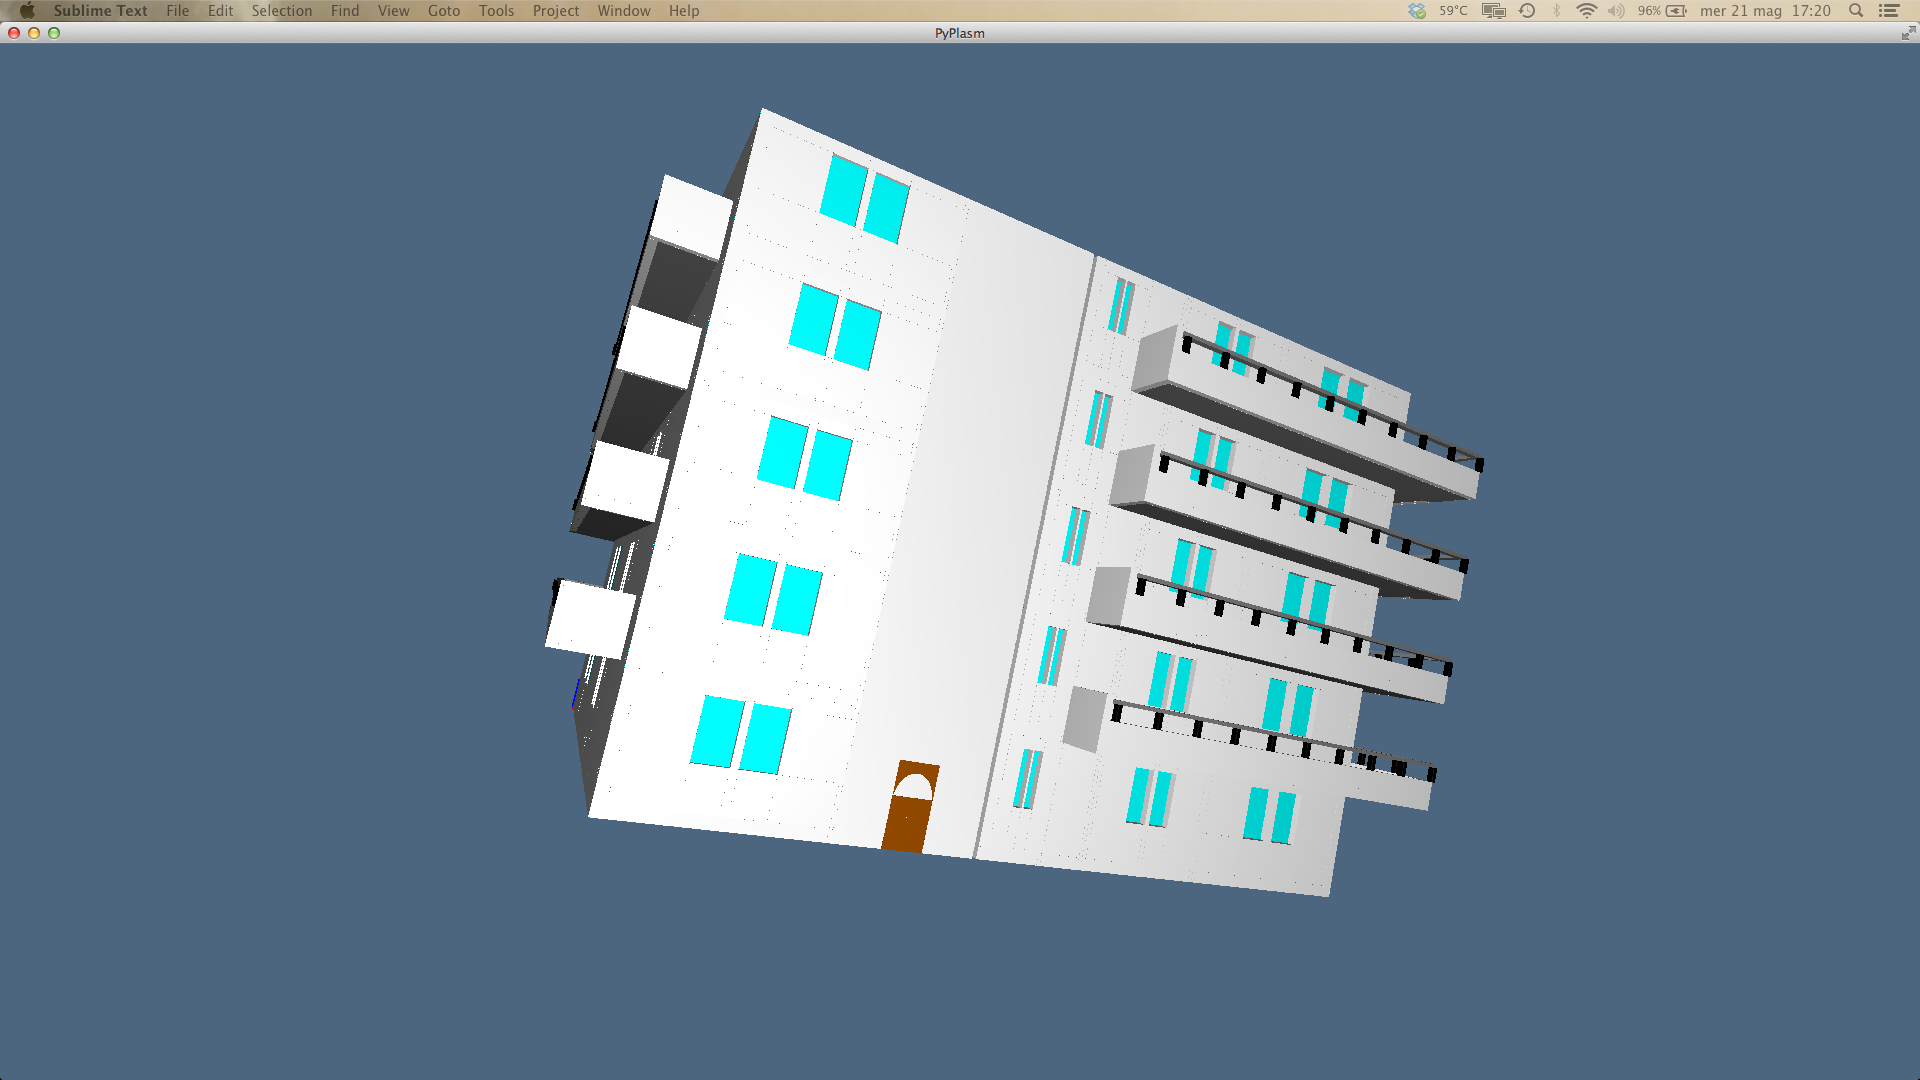
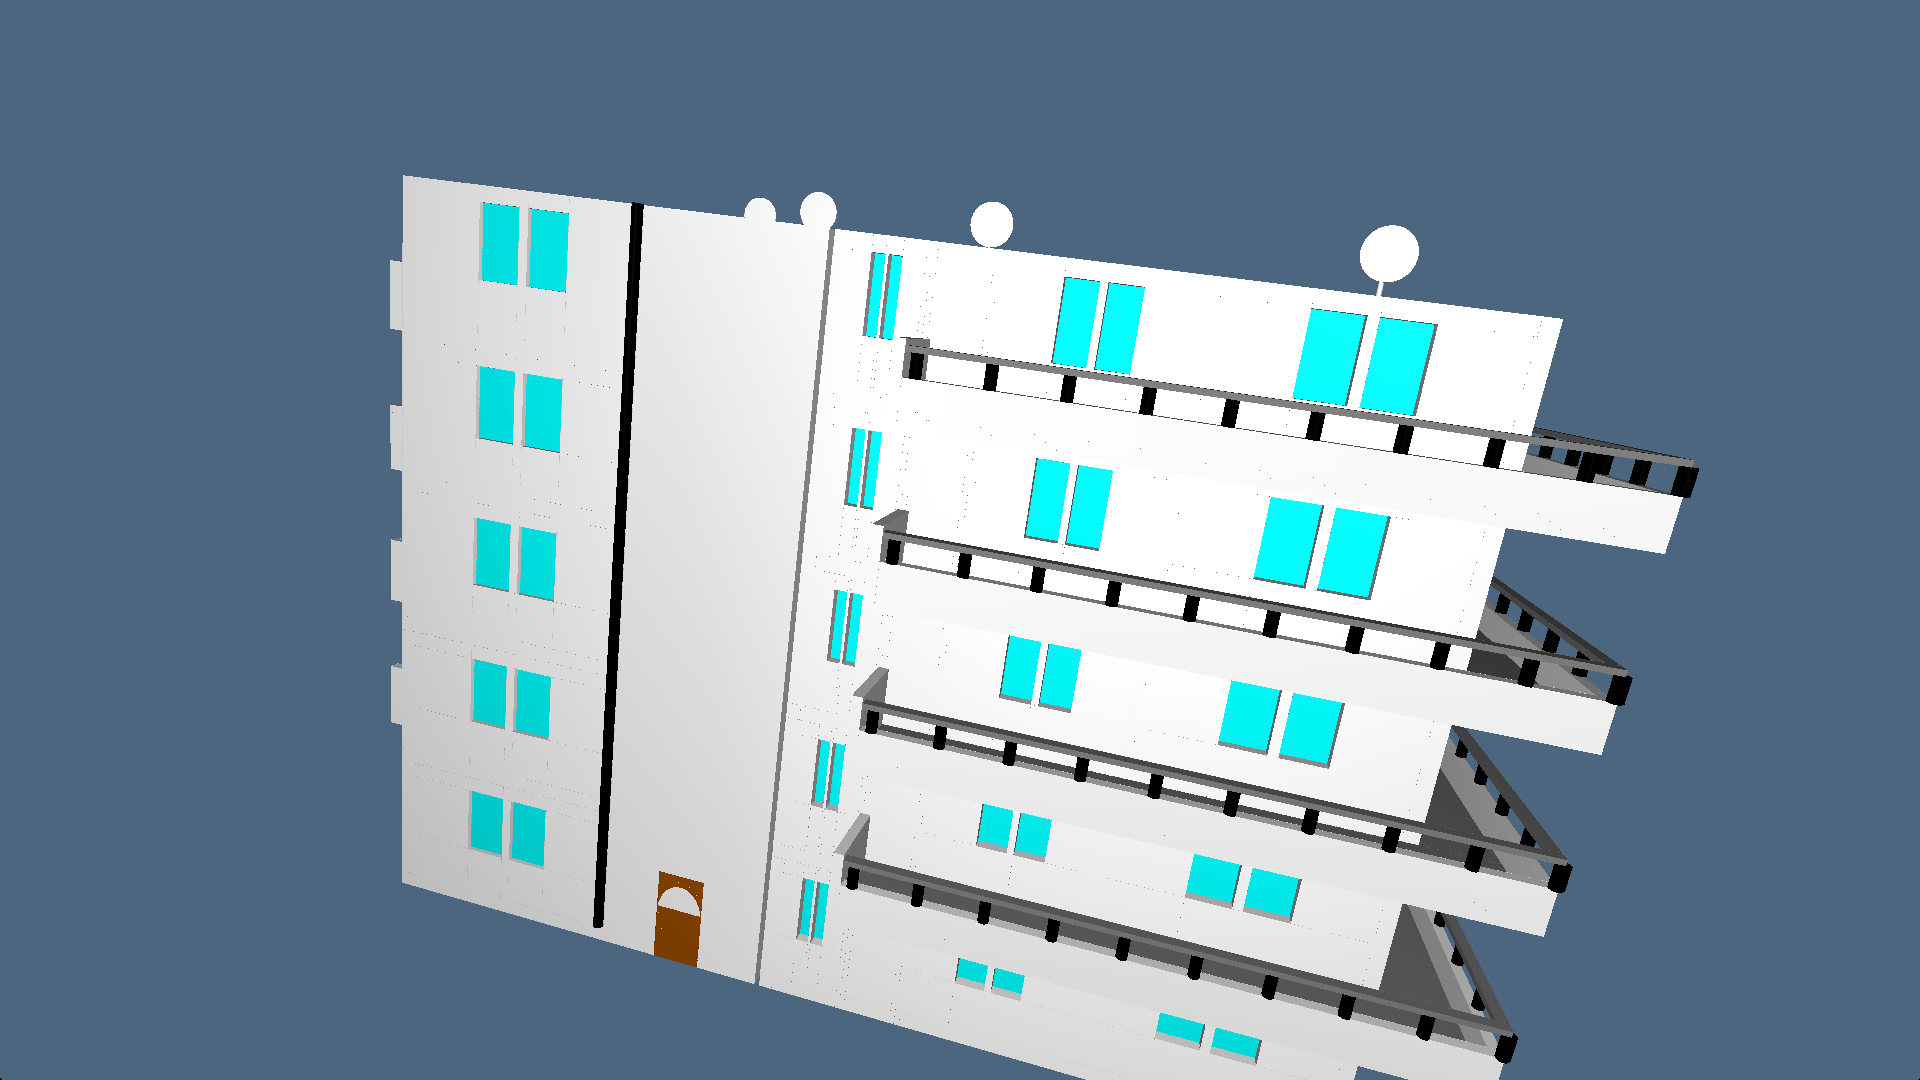
end
aggiunte antenne e grondaia in ex2

diff --git a/2014-05-17/python/exercise4.py b/2014-05-17/python/exercise4.py
@@ -1,0 +1,31 @@
+from larcc import *
+
+
+   def diagram2cell(diagram,master,cell):
+      matrix = diagram2cellMatrix(diagram)(master,cell)
+      diagram =larApply(matrix)(diagram)
+      (V1,CV1),(V2,CV2) = master,diagram
+      x1,x2 = len(V1), len(V2)
+# cerco i vertici in comune
+      V, CV1, CV2, n12 = vertexSieve(master,diagram)
+      comuni = range(x1-x12, x1)
+      intervallo = range(x1,x1-x12+x2)
+
+
+      def checkInclusion(V,cell,intervallo):
+         vertici = [V[v] for v in theCell]
+         minimo, massimo = min(vertici), max(vertici)
+         cell += [v for v in newRange if (
+            minimo[0] <= V[v][0] and minimo[1] <= V[v][1] and minimo[2] <= V[v][2]
+            and
+            V[v][0] <= massimo[0] and V[v][1] <= massimo[1] and V[v][2] <= massimo[2]
+            )]
+         return cell
+# addition of new vertices into the adjacents of cell c
+      CV1 = [checkInclusion(V,c,intervallo)
+      if set(c).intersection(comuni) != set() else c
+      for c in CV1]
+
+   CV = [c for k,c in enumerate(CV1) if k != cell] + CV2
+   master = V, CV
+     return master

diff --git a/2014-05-17/python/exercise2.py b/2014-05-17/python/exercise2.py
@@ -603,6 +603,20 @@ cavo2 = T([1,2,3])([1.5,.9,3])(CYLINDER([.05,12])(64))
 
 elevator = STRUCT([hpcElevator, COLOR(BLACK)(cavo1), COLOR(BLACK)(cavo2)])
 
+#Grondaie
 
-VIEW(STRUCT([COLOR(GRAY)(horz),facadeF, scale,COLOR([0.58823529411,0.29411764705,0])(porta), T([1,2])([6.75,9.1])(elevator)]))
+gutter = (CYLINDER([.1,14.5])(64))
+gutter2 = (CYLINDER([.08,14.5])(64))
+gutter = DIFFERENCE([gutter,gutter2])
+gutter = STRUCT([T([1,2,3])([-.1,11.5,.5])(gutter), T([1,2,3])([15.5,5,.5])(gutter)])
+
+#antenne
+antenna = ((CYLINDER([.5,.05])(64)))
+pole = (CYLINDER([.05,1])(64))
+antenna = (R([3,1])(PI/2)(antenna))
+antenna = STRUCT([T([1,3])([.05,1])(antenna), pole])
+antennas = STRUCT([T([1,2,3])([4,2,15])(antenna), T([1,2,3])([7,5,15])(antenna), T([1,2,3])([9,10,15])(antenna), T([1,2,3])([12,18,15])(antenna)])
+
+
+VIEW(STRUCT([COLOR(GRAY)(horz),facadeF, scale,COLOR([0.58823529411,0.29411764705,0])(porta), T([1,2])([6.75,9.1])(elevator), COLOR(BLACK)(gutter), antennas]))
 

diff --git a/2014-05-17/python/exercise1.py b/2014-05-17/python/exercise1.py
@@ -416,11 +416,12 @@ handle = STRUCT([handle1,handle2])
 
 
 #Porta d'ingresso
-portaIngresso = STRUCT([doorExt,COLOR(BROWN)(handle)])
+portaIngresso = STRUCT([doorExt,COLOR(BROWN)(handle),R([2,1])(PI)(handle)])
 portaIngressoT = R([1,2])(PI)(portaIngresso)
 portaIngressoT2 = (T([1,2,3])([6.2,8.5,.3])(portaIngressoT))
 
 VIEW(portaIngressoT2)
+
 #Porta cucina
 doorCook = COLOR([0.58823529411,0.29411764705,0])(CUBOID([0.1,1.1,2.2]))
 doorCook1 = STRUCT([doorCook,R([1,2])(PI/2)(T([1,2,3])([0.1,-0.1,0.2])(handle))])
